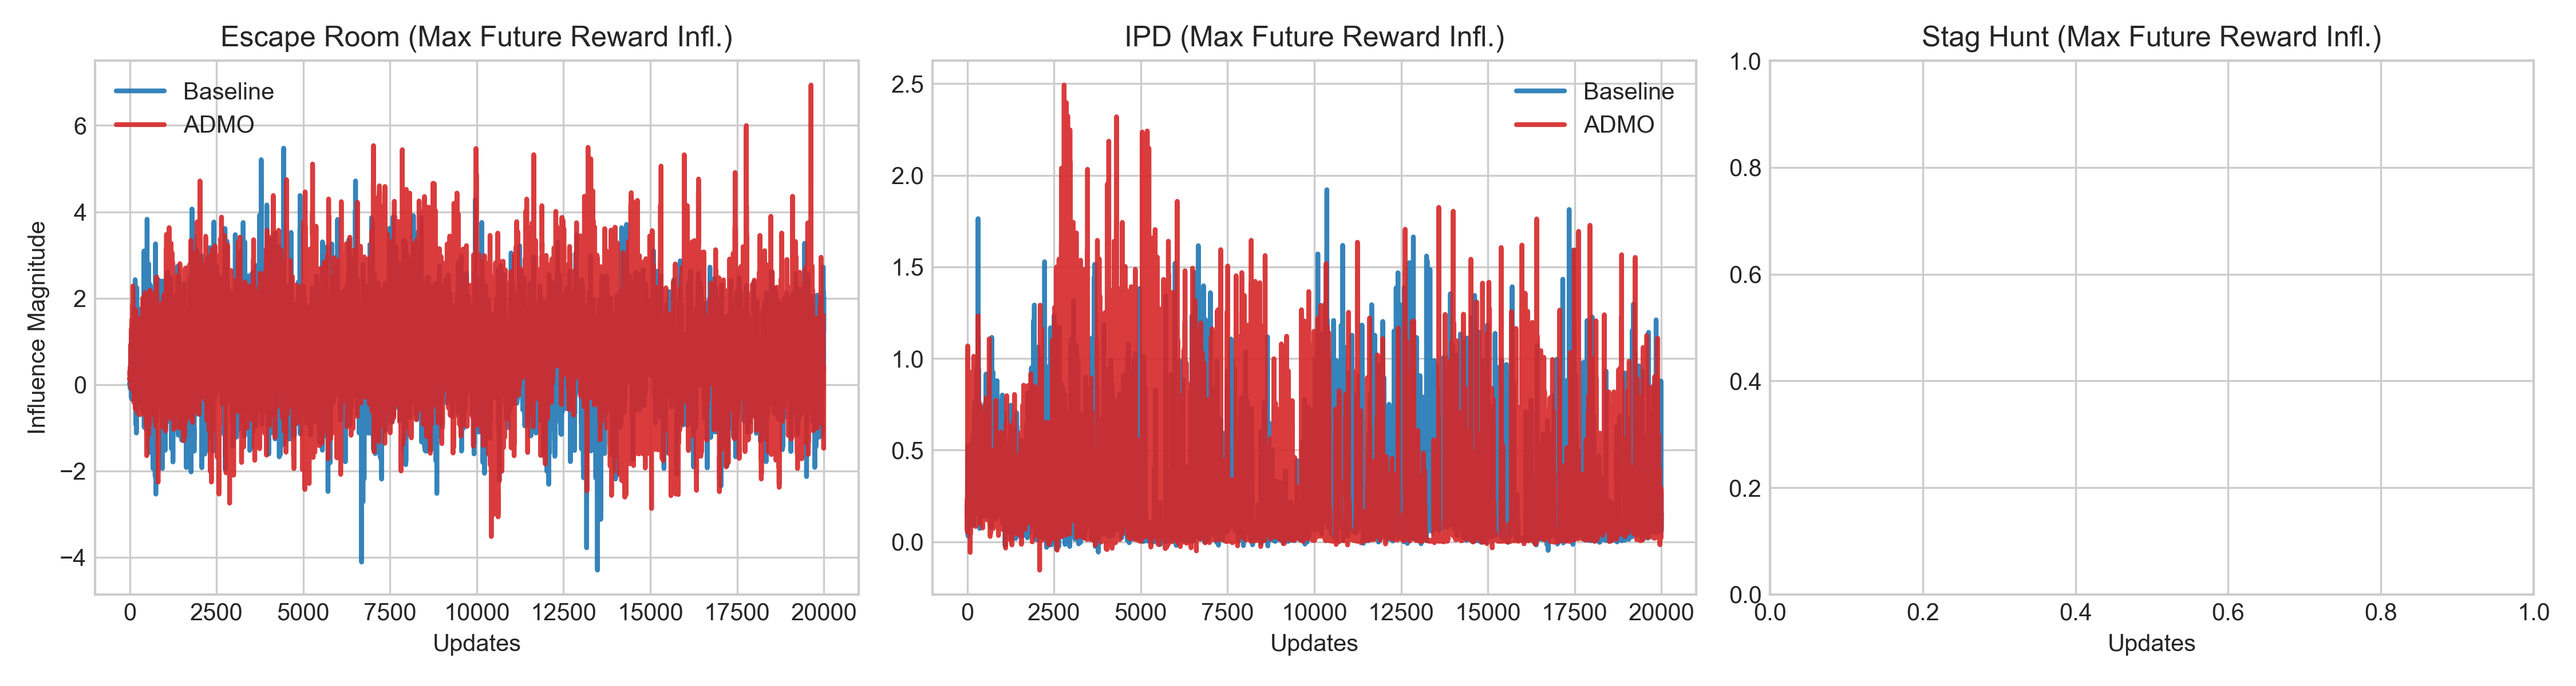
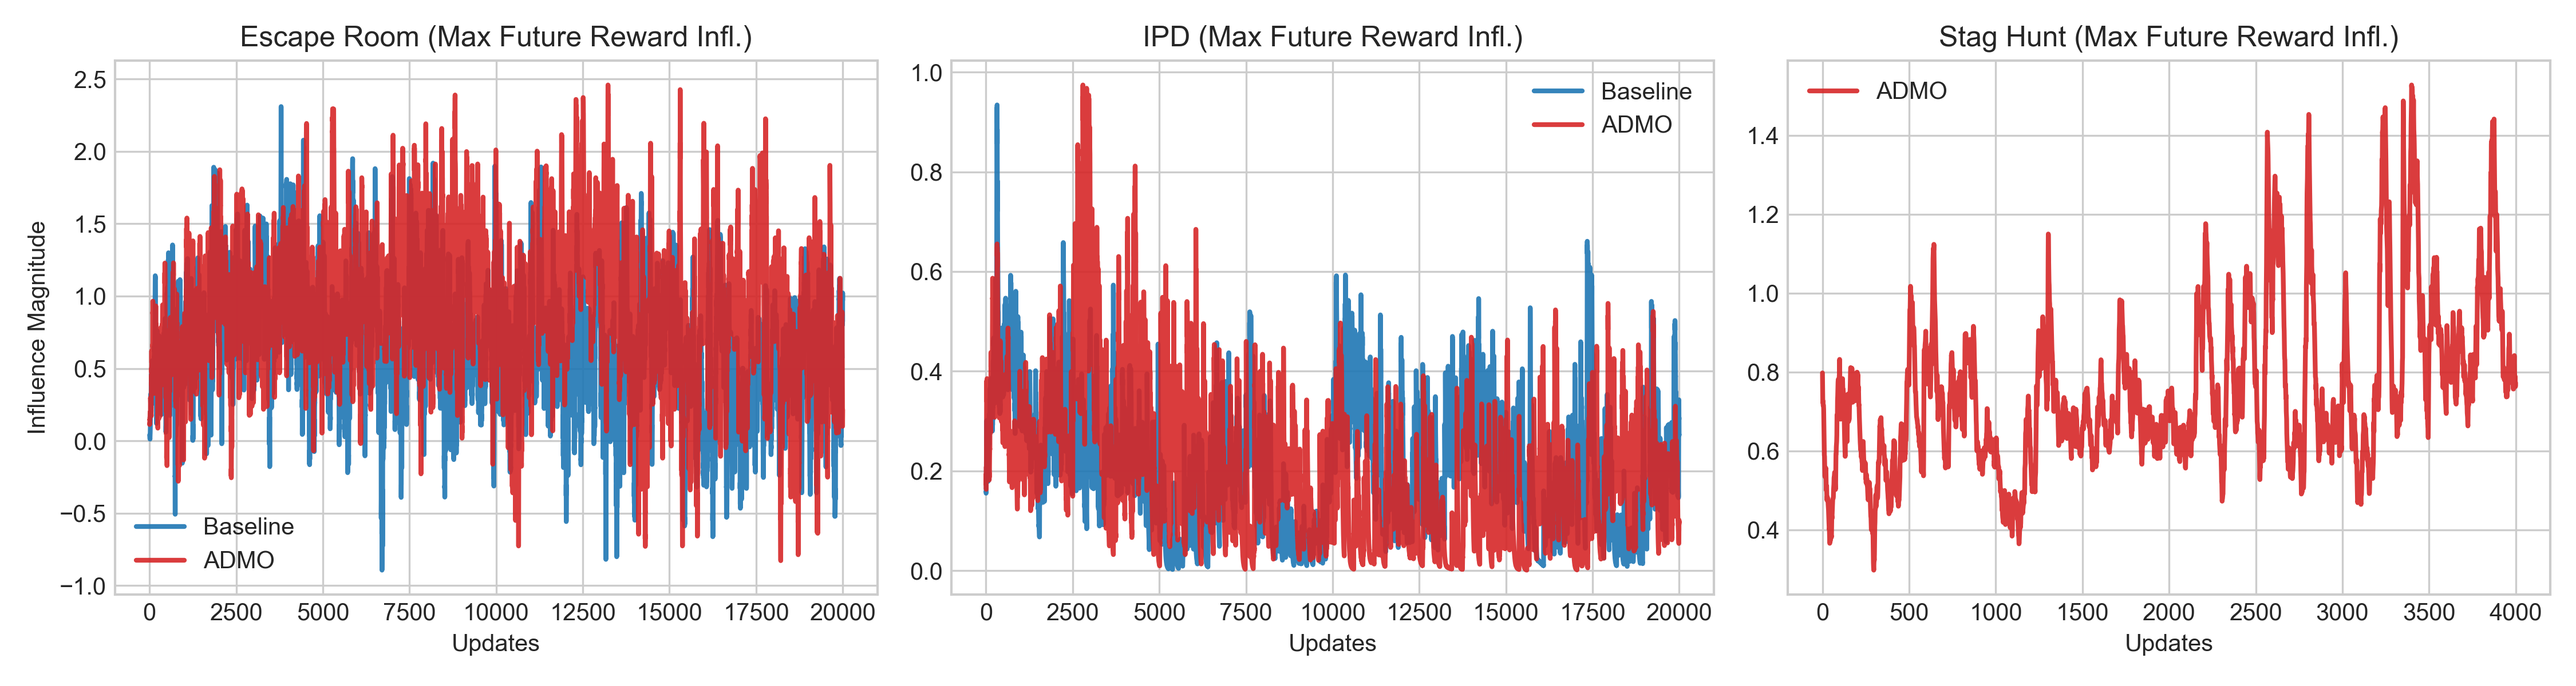
fix: apply heavier EMA smoothing to plotting tools for significantly better interpretability over high-variance metrics

diff --git a/plot_scripts_admo.py b/plot_scripts_admo.py
@@ -25,7 +25,7 @@ def get_metric(files, metric='A1_reward_env'):
     trimmed_vals = [v[:min_len] for v in all_vals]
     return np.mean(trimmed_vals, axis=0)
 
-def smooth(y, weight=0.8):
+def smooth(y, weight=0.98):
     if y is None or len(y) == 0: return []
     last = y[0]
     smoothed = []
@@ -69,10 +69,10 @@ def plot_stdout_logs():
         
         has_data = False
         if clean_vals:
-            ax.plot(smooth(clean_vals, 0.6), label=LABELS['baseline'], color=COLORS['baseline'], alpha=0.9, linewidth=2)
+            ax.plot(smooth(clean_vals, 0.95), label=LABELS['baseline'], color=COLORS['baseline'], alpha=0.9, linewidth=2)
             has_data = True
         if admo_vals:
-            ax.plot(smooth(admo_vals, 0.6), label=LABELS['admo'], color=COLORS['admo'], alpha=0.9, linewidth=2)
+            ax.plot(smooth(admo_vals, 0.95), label=LABELS['admo'], color=COLORS['admo'], alpha=0.9, linewidth=2)
             has_data = True
             
         ax.set_title(f"{env_name} (Max Future Reward Infl.)")
@@ -119,10 +119,10 @@ def plot_csv_results():
 
         has_data = False
         if clean_vals is not None and len(clean_vals) > 0:
-            ax.plot(smooth(clean_vals, 0.8), label=LABELS['baseline'], color=COLORS['baseline'], alpha=0.9, linewidth=2)
+            ax.plot(smooth(clean_vals, 0.95), label=LABELS['baseline'], color=COLORS['baseline'], alpha=0.9, linewidth=2)
             has_data = True
         if admo_vals is not None and len(admo_vals) > 0:
-            ax.plot(smooth(admo_vals, 0.8), label=LABELS['admo'], color=COLORS['admo'], alpha=0.9, linewidth=2)
+            ax.plot(smooth(admo_vals, 0.95), label=LABELS['admo'], color=COLORS['admo'], alpha=0.9, linewidth=2)
             has_data = True
             
         ax.set_title(f"{env_name} (A1 Total Reward)")

diff --git a/plot_results_admo.py b/plot_results_admo.py
@@ -28,7 +28,7 @@ def get_latest_log_for_env(env_id, is_admo, is_reciprocator=False):
     # Sort by modification time to grab the most recent run
     return sorted(files, key=os.path.getmtime)[-1]
 
-def smooth_curve(x, y, weight=0.8):
+def smooth_curve(x, y, weight=0.95):
     if len(y) == 0: return y
     last = y[0]
     smoothed = []
